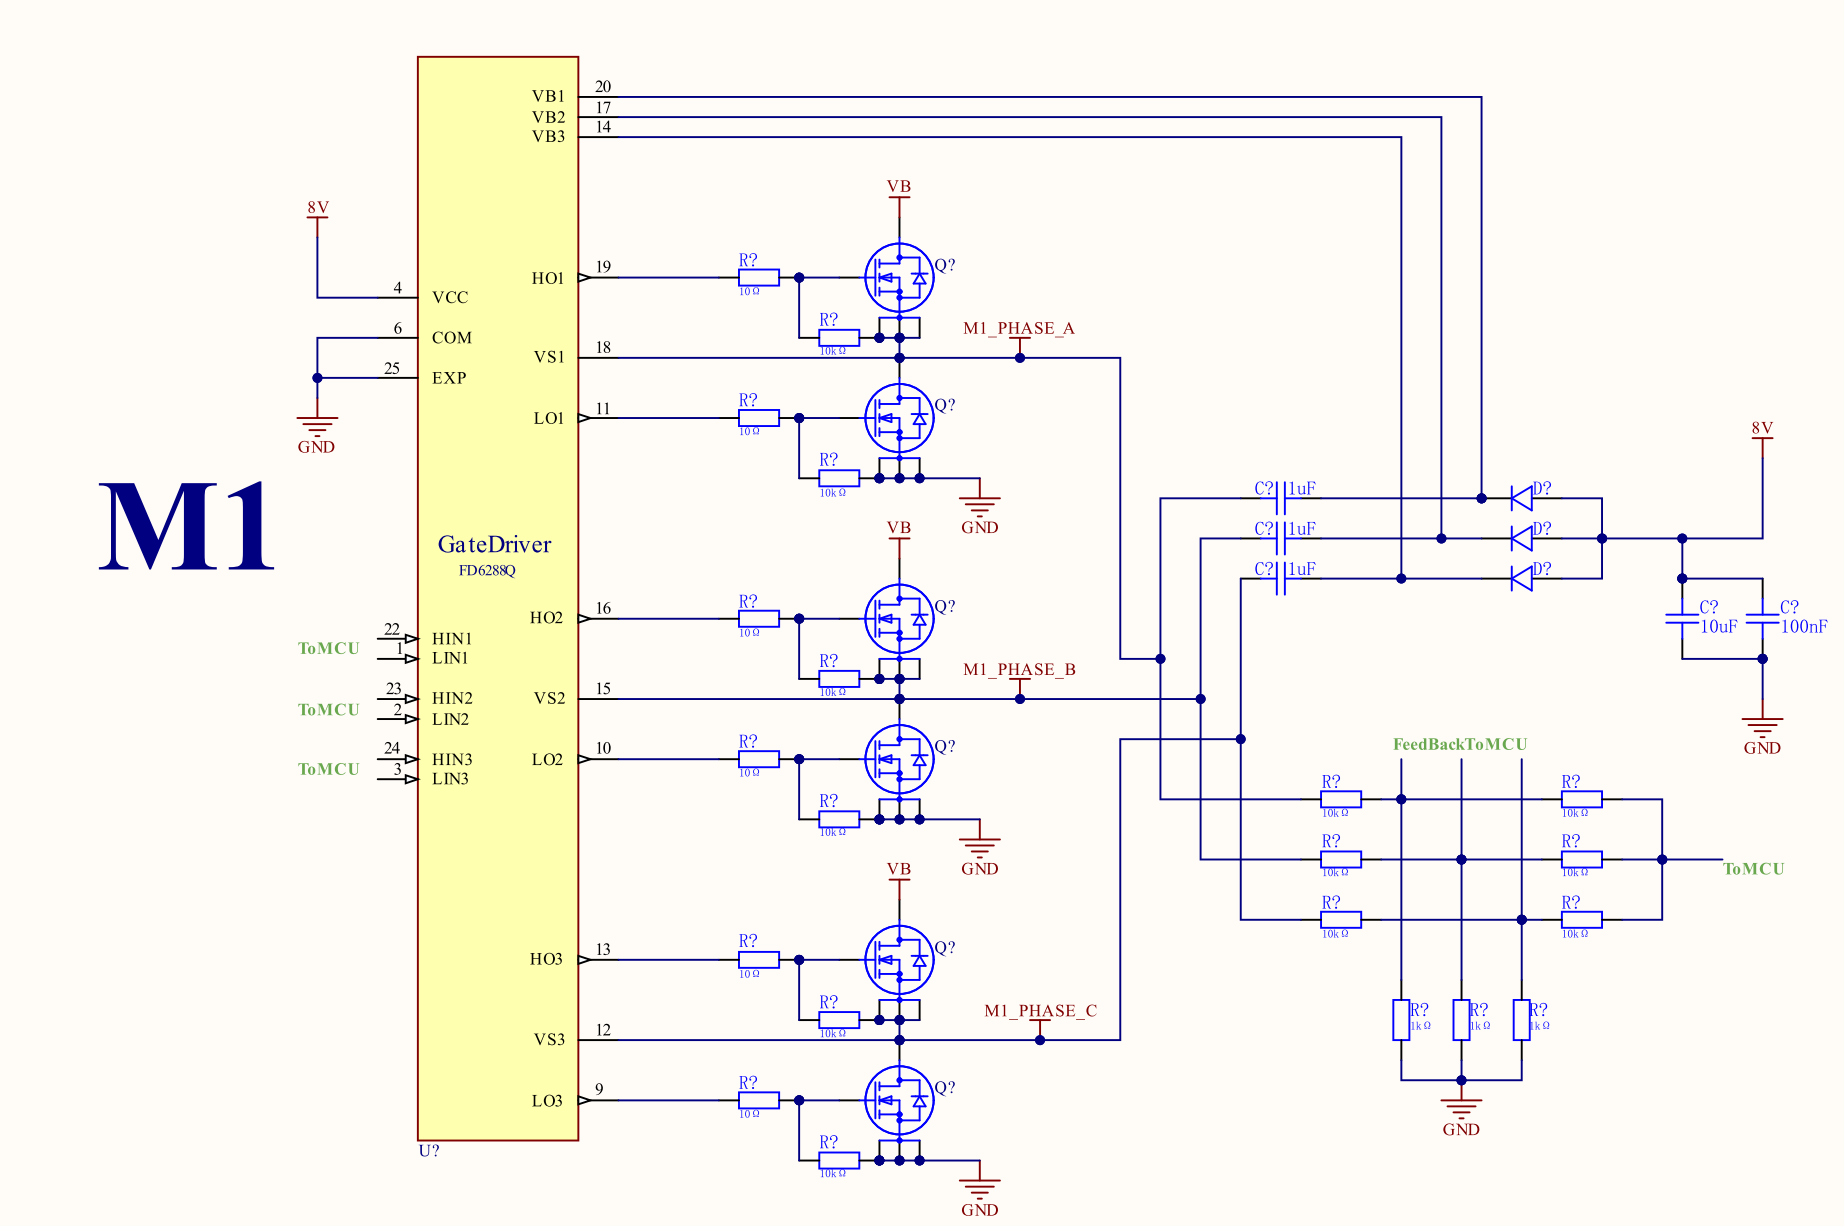
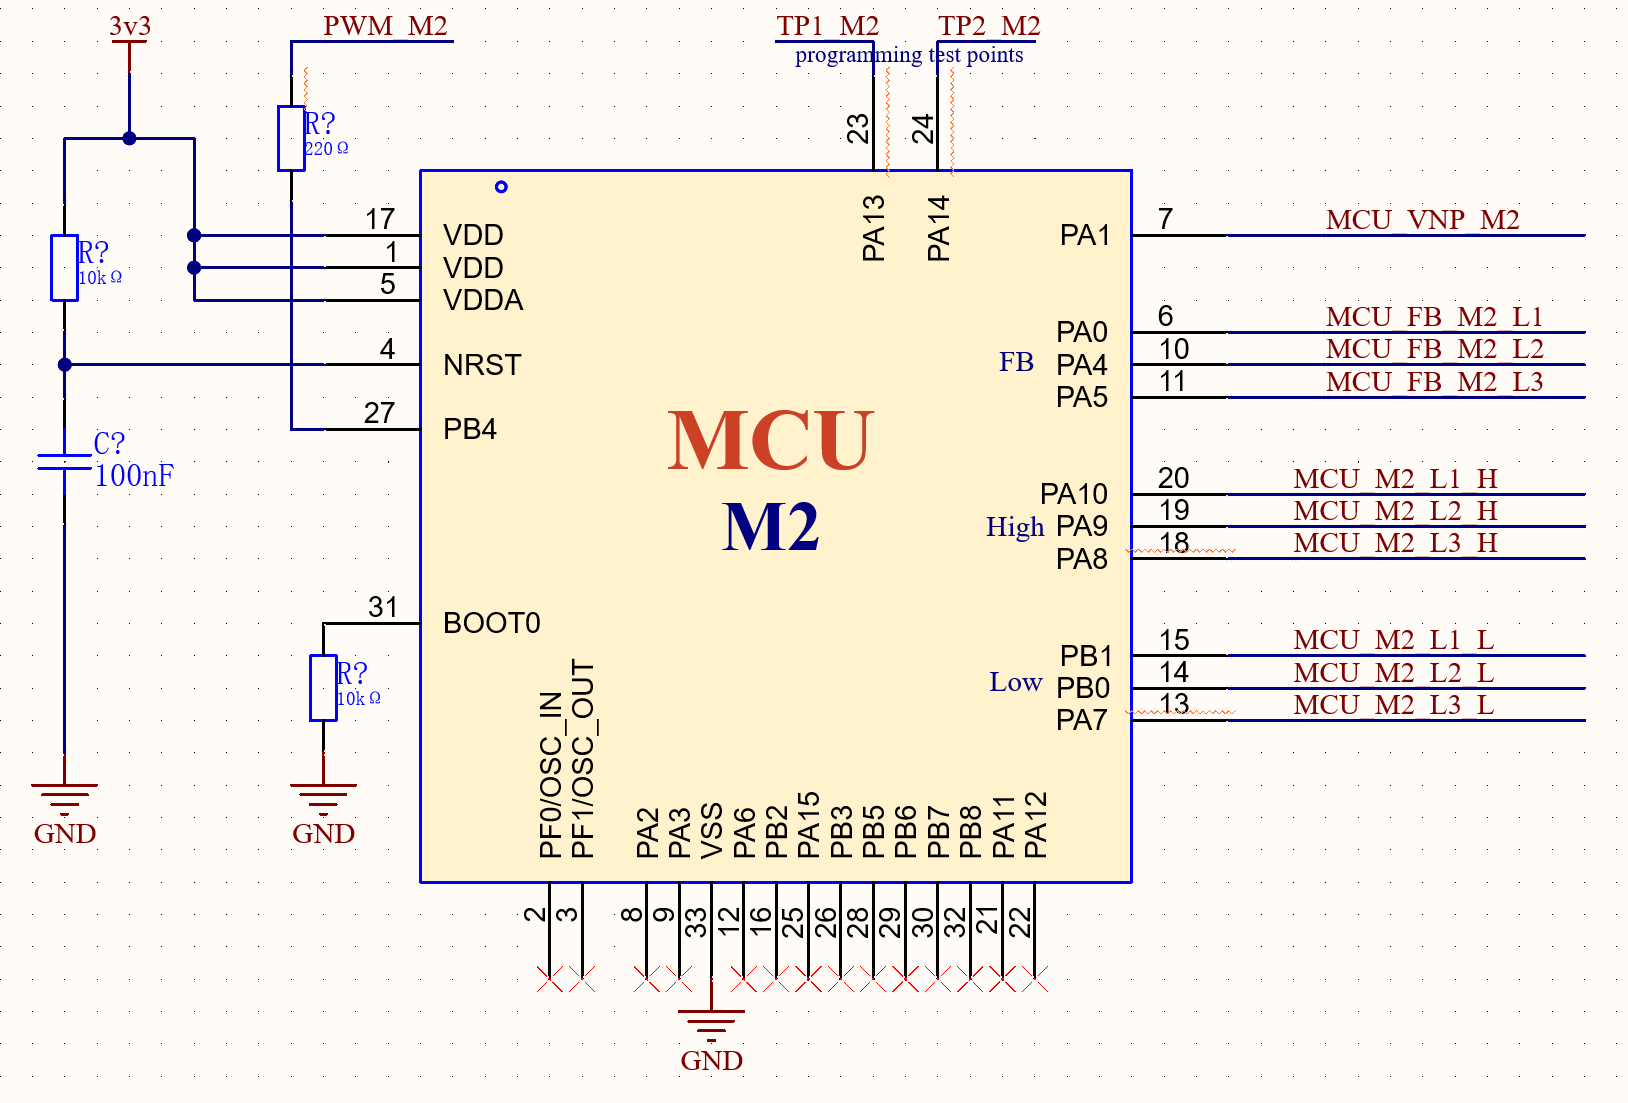
update

diff --git a/README.md b/README.md
@@ -23,9 +23,15 @@ The end goal of this project is to design and manufacture ESC pcb, that can be c
 <img src="\Outputs/Screenshot1.png" >
 
 ### Motor Gate Drivers
-<img src="\Outputs/Screenshot_2.png" >
-<img src="\Outputs/Screenshot_3.png" >
 
+Motor M1
+<img src="\Outputs/Screenshot_2.png" >
+
+Motor M2
+<img src="\Outputs/Screenshot_3.png" >
+<img src="\Outputs/Screenshot_4.png" >
+
+Motors 3 and 4 likewise
 
 
 # PCB
